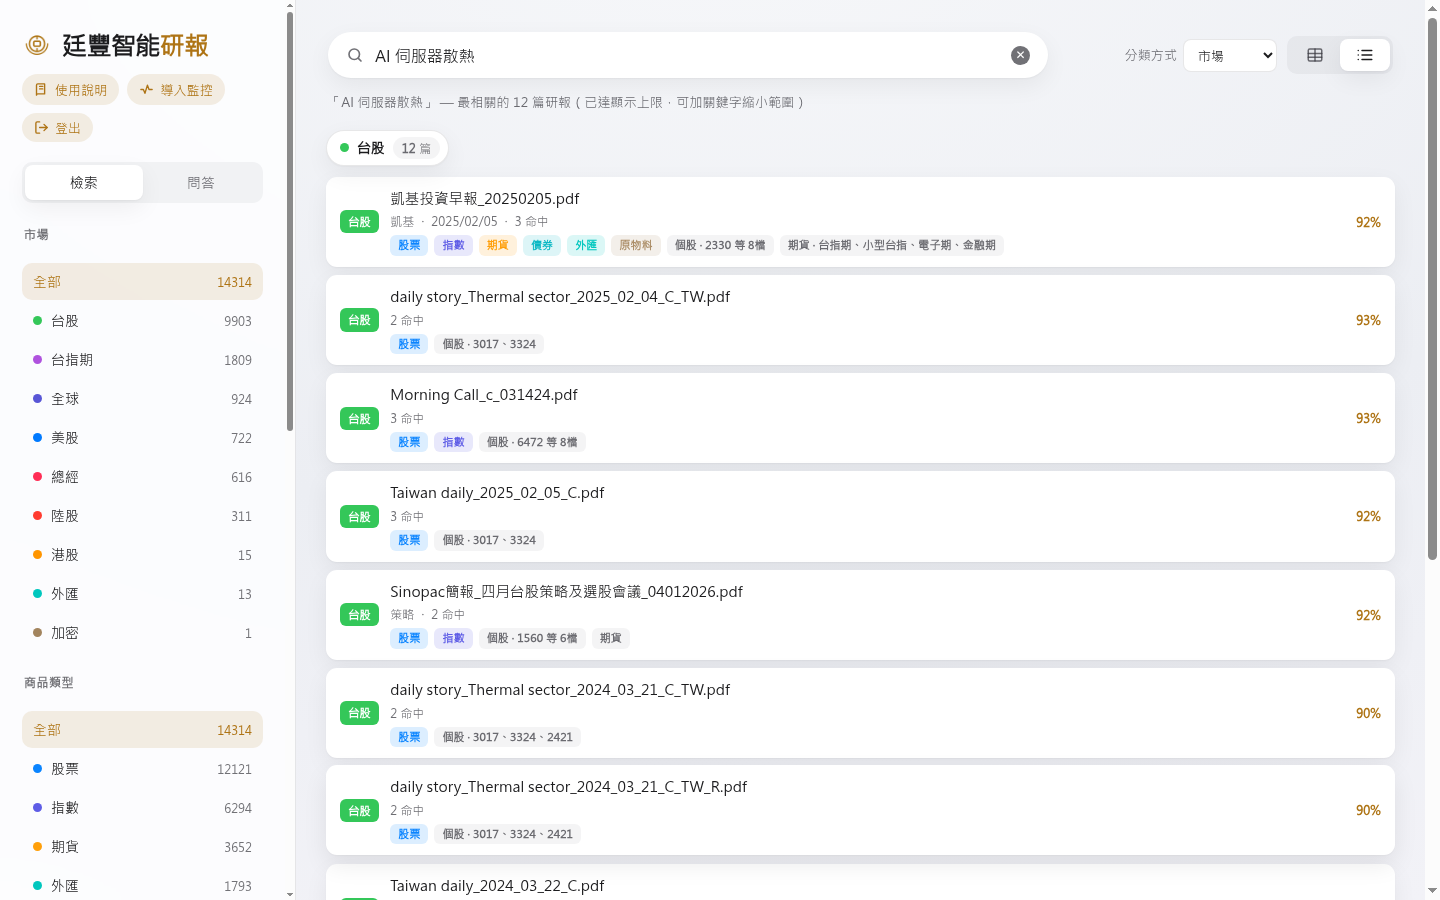
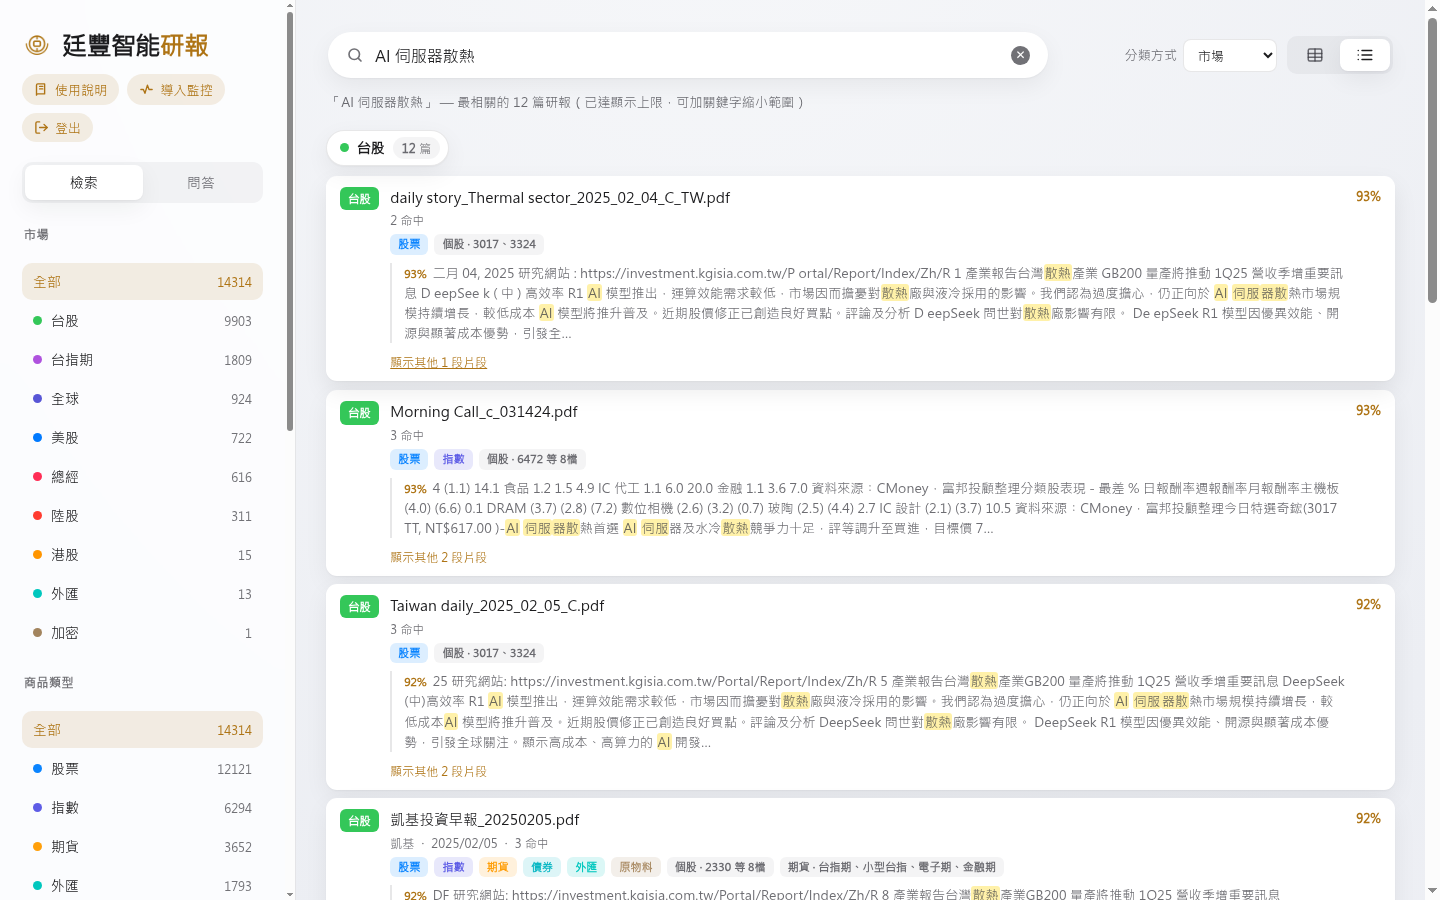
docs: 同步「命中片段／關鍵字高亮」回文件與截圖
承上 feat(search) 把片段/高亮加回列表列，文件改回對齊現況：

- help §3：搜尋會列出最相關命中片段、關鍵詞黃底高亮（可展開更多）
- help §6：anatomy 圖改用「搜尋結果一筆（含高亮片段）」，清單加回「命中片段」項；
  摘要移至 note（瀏覽時才顯示）
- 02-results.png 重截為含片段版；card-anatomy.png 換成含高亮片段的搜尋列
- README／WORKFLOW／intro_pdf：補回搜尋時列表的命中片段＋關鍵字高亮

Changed region(s): [[0.2188, 0.1867, 1.0, 1.0], [0.9375, 0.2178, 0.9688, 0.2489]]

diff --git a/web/static/help.html b/web/static/help.html
@@ -165,11 +165,11 @@
       <ul class="bul">
         <li>可輸入主題、公司、事件，例如：「AI 伺服器散熱」、「台積電 先進封裝」、「美國 升息」。</li>
         <li>採<strong>語意 ＋ 關鍵字混合檢索</strong>：用字不必和報告完全相同，也能找到語意相關的報告。</li>
-        <li>結果依<strong>相關度</strong>排序，每筆右側的<strong>百分比</strong>是該篇最相關片段與查詢的相似度，並標出<strong>命中片段數</strong>，方便快速判斷。</li>
+        <li>結果依<strong>相關度</strong>排序（每筆右側<strong>百分比</strong>＝該篇最相關片段與查詢的相似度）；列表檢視會列出報告中<strong>最相關的命中片段</strong>，關鍵詞以<strong>黃底</strong>標示，可點「顯示更多片段」展開。</li>
       </ul>
       <figure>
         <img src="/static/help/02-results.png" alt="搜尋結果" />
-        <figcaption>搜尋「AI 伺服器散熱」的結果：依相關度排序，每筆右側顯示相似度 %</figcaption>
+        <figcaption>搜尋「AI 伺服器散熱」的結果：每筆列出最相關命中片段，關鍵詞黃底高亮，右側為相似度 %</figcaption>
       </figure>
       <div class="note">搜尋會回傳<b>最相關的前 12 篇</b>研報（非整個資料庫）；想更精準就多加關鍵字縮小範圍。結果上的<b>百分比</b>是「該篇<b>最相關片段</b>與查詢的相似度」，不是整篇報告的相關度。</div>
     </section>
@@ -216,21 +216,21 @@
 
     <section id="result">
       <h2><span class="no">6</span>看懂一筆結果</h2>
-      <p>每一筆結果都會顯示以下資訊（下圖為示意；列表與表格的排版略有不同，資訊相同）：</p>
+      <p>每一筆結果都會顯示以下資訊（下圖為<strong>搜尋結果</strong>的一筆，列表檢視；表格為相同資訊的欄位排版）：</p>
       <figure>
-        <img src="/static/help/card-anatomy.png" alt="一筆結果（列表列）的各部位" />
-        <figcaption>一筆結果（列表）的各部位，由左到右；表格檢視為相同資訊的欄位排版</figcaption>
+        <img src="/static/help/card-anatomy.png" alt="搜尋結果一筆（含命中片段）的各部位" />
+        <figcaption>搜尋結果的一筆（列表）：市場徽章、檔名、來源／命中數、標籤、命中片段（黃底高亮）與相似度 %</figcaption>
       </figure>
       <ol class="annot-legend">
         <li><span class="n">1</span><span><b>市場徽章</b>：報告涵蓋的主要市場（彩色，本例「台股」）；完整 9 種見下方。</span></li>
         <li><span class="n">2</span><span><b>檔名</b>：原始報告檔名。</span></li>
-        <li><span class="n">3</span><span><b>來源／日期／命中片段數</b>：券商來源、報告日期，與（搜尋時）本篇命中你查詢的<b>段落數</b>。</span></li>
-        <li><span class="n">4</span><span><b>商品類型標籤</b>：報告提到的金融商品（本例「股票・指數・期貨…」）；完整清單見下方。</span></li>
-        <li><span class="n">5</span><span><b>標的標籤</b>：對選股／期貨是否有參考，常附<b>代碼</b>（本例「個股 · 2330 等 8 檔」）。</span></li>
-        <li><span class="n">6</span><span><b>相關度</b>：搜尋時，最右側的<b>百分比</b>是該篇最相關片段與查詢的相似度。</span></li>
-        <li><span class="n">7</span><span><b>摘要</b>：若該報告有 2-3 句中文摘要，會顯示在標的標籤下方並<b>完整顯示</b>（表格檢視則於名稱 hover 顯示）。</span></li>
+        <li><span class="n">3</span><span><b>來源／日期／命中片段數</b>：券商來源、報告日期，與（搜尋時）本篇命中你查詢的<b>段落數</b>（本例「2 命中」）。</span></li>
+        <li><span class="n">4</span><span><b>商品類型標籤</b>：報告提到的金融商品（本例「股票」）；完整清單見下方。</span></li>
+        <li><span class="n">5</span><span><b>標的標籤</b>：對選股／期貨是否有參考，常附<b>代碼</b>（本例「個股 · 3017、3324」）。</span></li>
+        <li><span class="n">6</span><span><b>命中片段</b>：搜尋時列出與查詢最相關的<b>段落</b>，關鍵詞以<b>黃底</b>高亮；段落前的百分比是該段相關度，可點<b>「顯示更多片段」</b>展開其餘。</span></li>
+        <li><span class="n">7</span><span><b>相關度</b>：最右側的<b>百分比</b>是該篇最相關片段與查詢的相似度。</span></li>
       </ol>
-      <div class="note">點<b>整列</b>即可開啟完整報告（內嵌原始 PDF，見第 7 節）。</div>
+      <div class="note">瀏覽（未搜尋）時不顯示片段，改顯示 2-3 句<b>中文摘要</b>（列表完整顯示、表格 hover 顯示）。點<b>整列</b>即可開啟完整報告（見第 7 節）。</div>
 
       <h3>市場徽章（每篇一個）</h3>
       <p>代表報告涵蓋的「主要市場」，以彩色標籤呈現：</p>

diff --git a/docs/intro_pdf.html b/docs/intro_pdf.html
@@ -187,7 +187,7 @@ pgvector 以餘弦相似度找出最接近的內文片段 → 按報告分組、
 <div class="avoid-break">
 <table class="tbl">
   <tr><th style="width:28%">網頁功能</th><th>說明</th></tr>
-  <tr><td>語意搜尋</td><td>輸入自然語言問題，依相關度顯示相關報告（含相似度分數、命中片段數）</td></tr>
+  <tr><td>語意搜尋</td><td>輸入自然語言問題，依相關度顯示相關報告與命中片段（含相似度分數、關鍵詞黃底高亮）</td></tr>
   <tr><td>AI 問答（RAG）</td><td>用自然語言提問，檢索相關研報後由 AI 整理出帶<b>引用來源</b>的回答、串流顯示；側欄保留歷史問答（可重看／刪除）</td></tr>
   <tr><td>預設瀏覽模式</td><td>不輸入關鍵字即列出全部已導入報告，依日期新到舊，分頁載入</td></tr>
   <tr><td>三組篩選器</td><td>市場（含各分類數量）、商品類型、個股／期貨——搜尋與瀏覽模式皆適用</td></tr>

diff --git a/docs/WORKFLOW.md b/docs/WORKFLOW.md
@@ -172,7 +172,7 @@ findb 無「債券」「原物料」獨立市場 → 歸最接近者（債券→
 
 > **認證**：除 `/login` 外所有端點皆需登入（deny-by-default 中介層）。未帶有效 session cookie 時 `/api/*` 回 **401**、其餘導向 **`/login`**；`/static/*` 也受保護。憑證為單一共用帳密（env `REPORT_MARK_ACCESS_USERNAME`/`_PASSWORD`，fail-closed），cookie 以 `REPORT_MARK_SESSION_SECRET` 簽章、7 天滑動到期，並對登入失敗做每 IP 限流。
 
-前端特性：雙欄側邊版面（手機收單欄）、頂部**檢索／問答**模式切換。檢索結果預設**列表**（依市場／報告類型／日期(月)分組，右上可切「分組依據」），可切**表格**（右上角圖示）；市場／商品類型／標的／報告類型篩選與排序、同篇研報合併、點任一筆「內嵌完整報告 PDF」、即打即查（debounce 450ms）、骨架載入。問答模式：RAG 串流回答＋可點引用來源、側欄歷史問答（可重看／刪除）。
+前端特性：雙欄側邊版面（手機收單欄）、頂部**檢索／問答**模式切換。檢索結果預設**列表**（依市場／報告類型／日期(月)分組，右上可切「分組依據」），可切**表格**（右上角圖示）；市場／商品類型／標的／報告類型篩選與排序、同篇研報合併、搜尋時列表顯示命中片段＋關鍵字黃底高亮（可展開更多）、點任一筆「內嵌完整報告 PDF」、即打即查（debounce 450ms）、骨架載入。問答模式：RAG 串流回答＋可點引用來源、側欄歷史問答（可重看／刪除）。
 
 ---
 

diff --git a/README.md b/README.md
@@ -115,7 +115,7 @@ web/
 
 雙欄側邊版面（手機收單欄），頂部有**檢索／問答**切換。
 
-**檢索**：搜尋框在內容區上方，結果預設以**列表**（依市場／報告類型／日期(月)分組，右上可切「分組依據」）呈現，也可切**表格**（右上角圖示切換）。每筆顯示市場標籤、商品類型、標的、券商來源、報告日期、命中片段數、相關度 %，以及**2-3 句中文摘要**（列表完整顯示；表格於名稱 hover 顯示）讓你不必開全文就能掌握大意；點任一筆即**內嵌原始 PDF**（彈窗頂部亦顯示摘要）。摘要由 `make summaries` 離線生成。
+**檢索**：搜尋框在內容區上方，結果預設以**列表**（依市場／報告類型／日期(月)分組，右上可切「分組依據」）呈現，也可切**表格**（右上角圖示切換）。每筆顯示市場標籤、商品類型、標的、券商來源、報告日期、命中片段數、相關度 %，以及**2-3 句中文摘要**（列表完整顯示；表格於名稱 hover 顯示）讓你不必開全文就能掌握大意；**搜尋時**列表還會列出最相關的**命中片段**並將關鍵字**黃底高亮**（可展開更多片段）；點任一筆即**內嵌原始 PDF**（彈窗頂部亦顯示摘要）。摘要由 `make summaries` 離線生成。
 
 **問答**：以自然語言提問，RAG 檢索＋串流回答、附**引用來源**（可點開原始報告），側欄保留**歷史問答**（可重看／刪除）。
 
